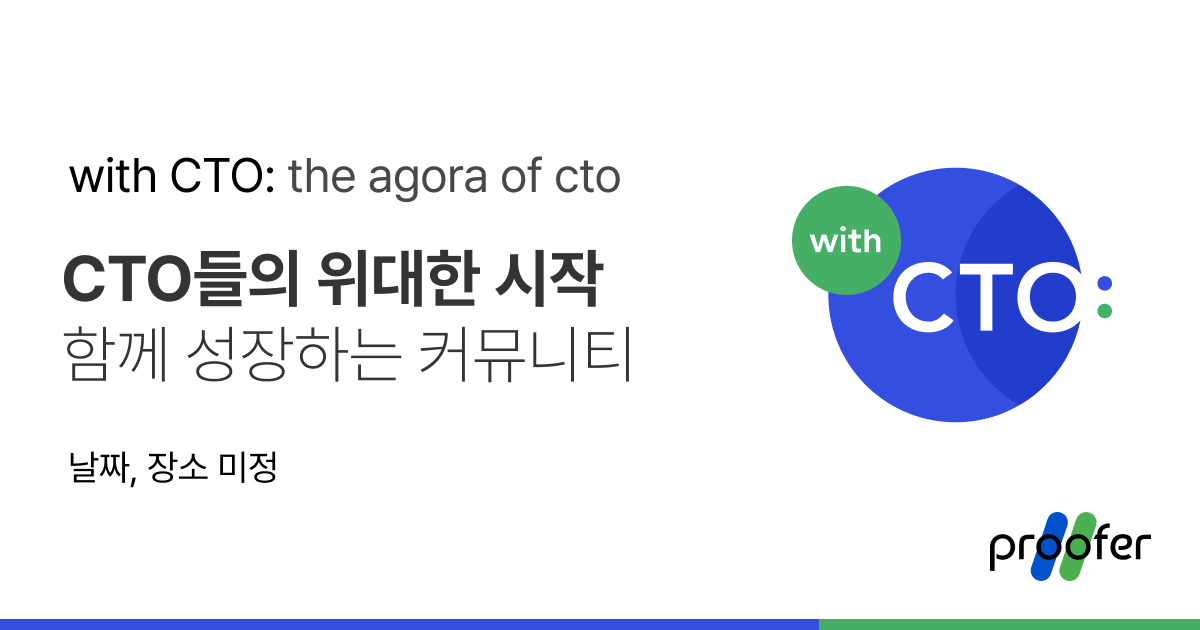
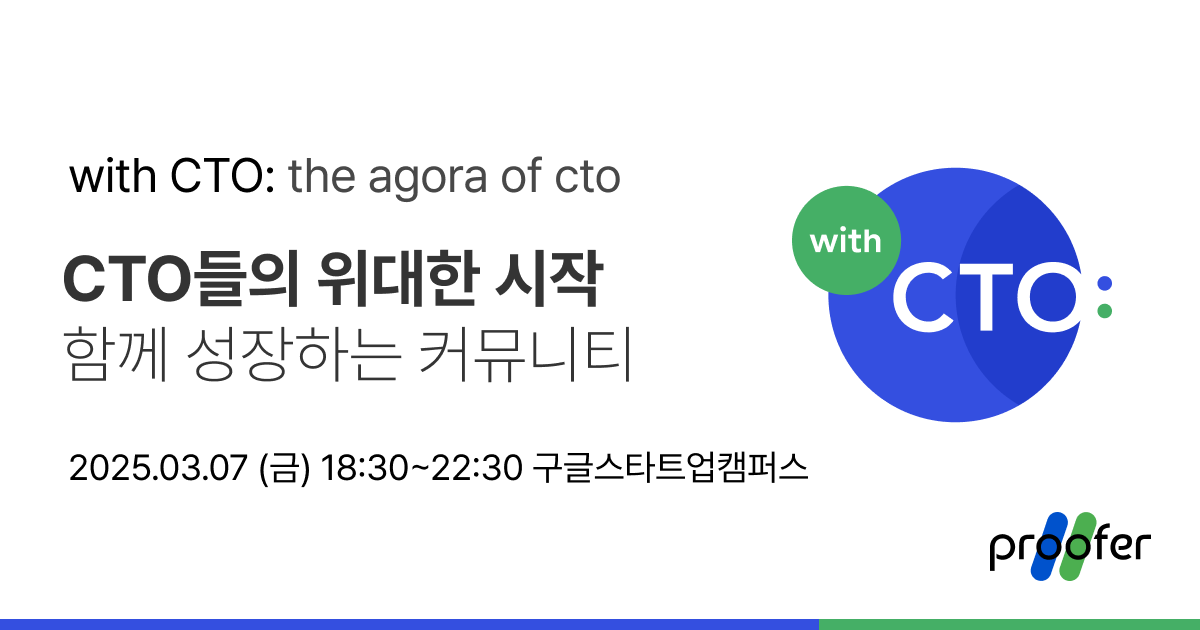
5th 프로그램 추가

Changed region(s): [[0.0617, 0.6937, 0.6783, 0.7841]]

diff --git a/app/with-cto/(root)/components/Timetable.tsx b/app/with-cto/(root)/components/Timetable.tsx
@@ -141,19 +141,19 @@ export default function Timetable() {
       <TimetableRows
         start
         timeSet={[
-          { time: "00:00-00:00", content: "준비중입니다" },
-          { time: "00:00-00:00", content: "준비중입니다" },
-          { time: "00:00-00:00", content: "준비중입니다" },
-          { time: "00:00-00:00", content: "준비중입니다" },
+          { time: "18:30-18:35", content: "인삿말: 만나서 반갑습니다" },
+          { time: "18:35-18:50", content: "스폰서십 & 온라인 커뮤니티 안내" },
+          { time: "18:50-18:55", content: "행사 프로그램 및 조편성 안내" },
+          { time: "18:55-19:20", content: "참여자 자기소개" },
         ]}
       />
       <TimetableRows
         end
         timeSet={[
-          { time: "00:00-00:00", content: "준비중입니다" },
-          { time: "00:00-00:00", content: "준비중입니다" },
-          { time: "00:00-00:00", content: "준비중입니다" },
-          { time: "00:00-00:00", content: "준비중입니다" },
+          { time: "19:20-20:20", content: "준비중" },
+          { time: "20:20-21:00", content: "준비중" },
+          { time: "21:00-21:10", content: "이벤트 추첨 & 행사 KPT 안내" },
+          { time: "21:10-23:00", content: "자유 네트워킹" },
         ]}
       />
     </Flex>
